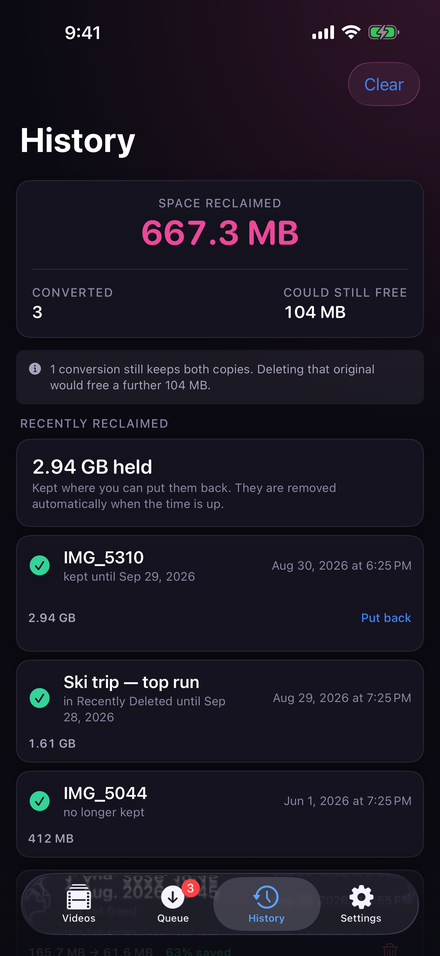
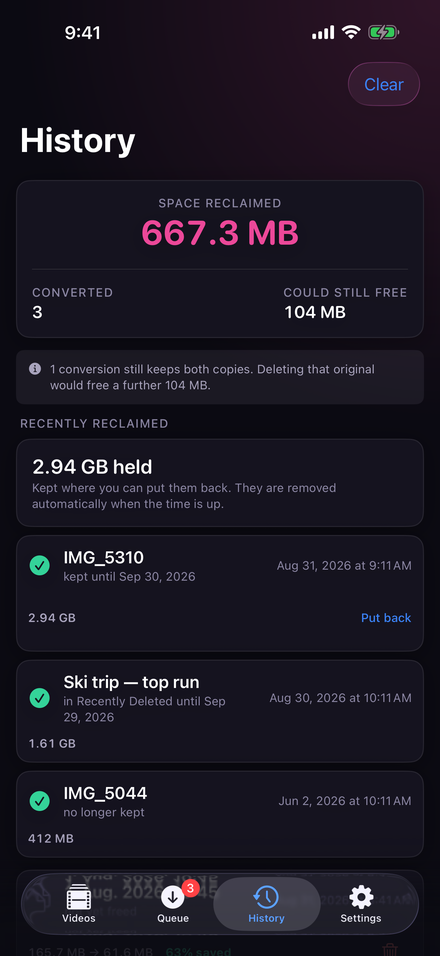
Publish videosqueezer: 55 pages

diff --git a/videosqueezer/el/terms.html b/videosqueezer/el/terms.html
@@ -48,7 +48,7 @@
   <p>Το VideoSqueezer διανέμεται μέσω του App&nbsp;Store, οπότε ισχύει η <a href="https://www.apple.com/legal/internet-services/itunes/dev/stdeula/">Τυπική Άδεια Χρήσης Τελικού Χρήστη</a> της Apple. Αυτοί οι όροι την συμπληρώνουν και λένε ό,τι αφορά ειδικά αυτή την εφαρμογή· όπου διαφωνούν, υπερισχύει της Apple.</p>
 
   <h3>Αγορές</h3>
-  <p>Η πλήρης έκδοση είναι <strong>μία εφάπαξ αγορά</strong>. Δεν είναι συνδρομή, τίποτα δεν ανανεώνεται και δεν υπάρχει επαναλαμβανόμενη χρέωση. Την πληρωμή, τους φόρους και τις αποδείξεις τα χειρίζεται εξ ολοκλήρου η Apple· δεν βλέπουμε ποτέ τα στοιχεία πληρωμής σου.</p>
+  <p>Η πλήρης έκδοση αγοράζεται με δύο τρόπους: ως <strong>εφάπαξ αγορά</strong>, που δεν ανανεώνεται ποτέ, ή ως <strong>ετήσια συνδρομή</strong>, με αυτόματη ανανέωση μέχρι να ακυρώσεις. Ακύρωση οποτεδήποτε από Ρυθμίσεις ▸ Λογαριασμός Apple ▸ Συνδρομές. Την πληρωμή, τους φόρους και τις αποδείξεις τα χειρίζεται εξ ολοκλήρου η Apple· δεν βλέπουμε ποτέ τα στοιχεία πληρωμής σου.</p>
   <p>Τις επιστροφές χρημάτων τις κάνει η Apple, όχι εμείς. Ζήτησέ τες στο <a href="https://reportaproblem.apple.com">reportaproblem.apple.com</a>.</p>
   <p>Τα βίντεο έως 60&nbsp;δευτερόλεπτα συμπιέζονται δωρεάν, σε κάθε επίπεδο ποιότητας — το δωρεάν όριο είναι η διάρκεια, όχι η ποιότητα. Η αγορά αφαιρεί το όριο διάρκειας και προσθέτει κωδικοποίηση δύο περασμάτων και προσαρμοσμένους στόχους ρυθμού bit. Αν μια μελλοντική έκδοση προσθέσει επί πληρωμή δυνατότητα, καλύπτεται από την ίδια αγορά.</p>
 

diff --git a/videosqueezer/ru/terms.html b/videosqueezer/ru/terms.html
@@ -48,7 +48,7 @@
   <p>VideoSqueezer распространяется через App&nbsp;Store, поэтому действует <a href="https://www.apple.com/legal/internet-services/itunes/dev/stdeula/">Стандартное лицензионное соглашение с конечным пользователем</a> Apple. Эти условия дополняют её и описывают то, что свойственно именно этому приложению; при расхождении преимущество за документом Apple.</p>
 
   <h3>Покупки</h3>
-  <p>Полная версия — это <strong>одна разовая покупка</strong>. Это не подписка, ничего не продлевается, повторных списаний нет. Оплату, налоги и чеки полностью обрабатывает Apple; мы никогда не видим ваши платёжные данные.</p>
+  <p>Полную версию можно купить двумя способами: <strong>разовой покупкой</strong>, которая никогда не продлевается, или <strong>годовой подпиской</strong>, которая продлевается автоматически, пока вы не отмените. Отменить можно в любой момент: Настройки ▸ Учётная запись Apple ▸ Подписки. Оплату, налоги и чеки полностью обрабатывает Apple; мы никогда не видим ваши платёжные данные.</p>
   <p>Возврат средств делает Apple, а не мы. Запросите его на <a href="https://reportaproblem.apple.com">reportaproblem.apple.com</a>.</p>
   <p>Видео до 60&nbsp;секунд сжимаются бесплатно на любом уровне качества — бесплатное пользование ограничено длиной, а не качеством. Покупка снимает ограничение длины и добавляет двухпроходное кодирование и собственные цели по битрейту. Если в будущей версии появится платная возможность, она покрывается той же покупкой.</p>
 

diff --git a/videosqueezer/uk/terms.html b/videosqueezer/uk/terms.html
@@ -48,7 +48,7 @@
   <p>VideoSqueezer розповсюджується через App&nbsp;Store, тож діє <a href="https://www.apple.com/legal/internet-services/itunes/dev/stdeula/">Стандартна ліцензійна угода з кінцевим користувачем</a> Apple. Ці умови доповнюють її й описують те, що властиве саме цьому застосунку; у разі розбіжності переважає документ Apple.</p>
 
   <h3>Покупки</h3>
-  <p>Повна версія — це <strong>одна разова покупка</strong>. Це не підписка, ніщо не поновлюється, і повторних списань немає. Оплату, податки та чеки повністю обробляє Apple; ми ніколи не бачимо ваших платіжних даних.</p>
+  <p>Повну версію можна придбати двома способами: <strong>разовою покупкою</strong>, яка ніколи не поновлюється, або <strong>річною підпискою</strong>, яка поновлюється автоматично, доки ви не скасуєте. Скасувати можна будь-коли: Параметри ▸ Обліковий запис Apple ▸ Підписки. Оплату, податки та чеки повністю обробляє Apple; ми ніколи не бачимо ваших платіжних даних.</p>
   <p>Повернення коштів робить Apple, а не ми. Попросіть про нього на <a href="https://reportaproblem.apple.com">reportaproblem.apple.com</a>.</p>
   <p>Відео до 60&nbsp;секунд стискаються безкоштовно на будь-якому рівні якості — безкоштовне користування обмежене тривалістю, а не якістю. Покупка знімає обмеження тривалості й додає двопрохідне кодування та власні цілі за бітрейтом. Якщо в майбутній версії зʼявиться платна можливість, вона покривається тією самою покупкою.</p>
 

diff --git a/videosqueezer/el/privacy.html b/videosqueezer/el/privacy.html
@@ -63,7 +63,7 @@
   <p>Το προαιρετικό κλείδωμα της εφαρμογής χρησιμοποιεί το Face&nbsp;ID μέσω του iOS. Στην εφαρμογή λέγεται μόνο αν ο έλεγχος πέρασε. Δεν βλέπει ποτέ τα δεδομένα του προσώπου σου, τα οποία δεν φεύγουν ποτέ από το Secure&nbsp;Enclave της συσκευής σου.</p>
 
   <h3>Αγορές</h3>
-  <p>Η πλήρης έκδοση είναι μία εφάπαξ αγορά, την οποία χειρίζεται εξ ολοκλήρου η Apple. Δεν βλέπουμε ποτέ τα στοιχεία πληρωμής σου, τον λογαριασμό Apple σου ή το όνομά σου. Η εφαρμογή ρωτά την Apple τι κατέχεις και αποθηκεύει την απάντηση στη συσκευή, ώστε αυτό που αγόρασες να συνεχίζει να δουλεύει εκτός σύνδεσης.</p>
+  <p>Η πλήρης έκδοση αγοράζεται μέσω της Apple, η οποία χειρίζεται εξ ολοκλήρου τη συναλλαγή. Δεν βλέπουμε ποτέ τα στοιχεία πληρωμής σου, τον λογαριασμό Apple σου ή το όνομά σου. Η εφαρμογή ρωτά την Apple τι κατέχεις και αποθηκεύει την απάντηση στη συσκευή, ώστε αυτό που αγόρασες να συνεχίζει να δουλεύει εκτός σύνδεσης.</p>
   <p>Η αγορά υποστηρίζει την Οικογενειακή Κοινή Χρήση. Αν κάποιος από την οικογενειακή σου ομάδα τη μοιραστεί μαζί σου, η Apple λέει στην εφαρμογή ότι δικαιούσαι — και τίποτα για το ποιος είναι αυτός.</p>
 
   <h3>Παιδιά</h3>

diff --git a/videosqueezer/ru/privacy.html b/videosqueezer/ru/privacy.html
@@ -63,7 +63,7 @@
   <p>Необязательная блокировка приложения использует Face&nbsp;ID через iOS. Приложению сообщается только то, прошла ли проверка. Оно никогда не видит данные вашего лица, которые никогда не покидают Secure&nbsp;Enclave вашего устройства.</p>
 
   <h3>Покупки</h3>
-  <p>Полная версия — это одна разовая покупка, которую целиком обрабатывает Apple. Мы никогда не видим ваши платёжные данные, вашу учётную запись Apple или ваше имя. Приложение спрашивает у Apple, что вам принадлежит, и хранит ответ на устройстве, чтобы купленное работало и без сети.</p>
+  <p>Полная версия покупается через Apple, которая целиком обрабатывает платёж. Мы никогда не видим ваши платёжные данные, вашу учётную запись Apple или ваше имя. Приложение спрашивает у Apple, что вам принадлежит, и хранит ответ на устройстве, чтобы купленное работало и без сети.</p>
   <p>Покупкой можно делиться в семье. Если кто-то из вашей семейной группы поделится ею с вами, Apple сообщит приложению, что у вас есть право, — и ничего о том, кто этот человек.</p>
 
   <h3>Дети</h3>

diff --git a/videosqueezer/ja/terms.html b/videosqueezer/ja/terms.html
@@ -48,7 +48,7 @@
   <p>VideoSqueezer は App&nbsp;Store を通じて配布されるため、Apple の<a href="https://www.apple.com/legal/internet-services/itunes/dev/stdeula/">標準エンドユーザー使用許諾契約</a>が適用されます。本規約はそれを補い、このアプリ固有の事項を定めます。両者が食い違う場合は Apple のものが優先します。</p>
 
   <h3>購入について</h3>
-  <p>フル版は<strong>一度きりの買い切り</strong>です。サブスクリプションではなく、自動更新も、継続的な請求もありません。支払い、税金、領収書はすべて Apple が扱い、私たちがあなたの支払い情報を見ることはありません。</p>
+  <p>フル版の買い方は 2 つあります。更新のない<strong>一度きりの買い切り</strong>か、解約するまで自動更新される<strong>年額サブスクリプション</strong>です。「設定」▸「Apple アカウント」▸「サブスクリプション」でいつでも解約できます。支払い、税金、領収書はすべて Apple が扱い、私たちがあなたの支払い情報を見ることはありません。</p>
   <p>返金を行うのは私たちではなく Apple です。<a href="https://reportaproblem.apple.com">reportaproblem.apple.com</a> からご依頼ください。</p>
   <p>60&nbsp;秒までの動画は、どの画質段階でも無料で圧縮できます。無料枠を区切るのは長さであって、画質ではありません。購入すると長さの制限がなくなり、2&nbsp;パスエンコードと任意のビットレート指定が加わります。将来のバージョンで有料機能が追加された場合も、同じ購入に含まれます。</p>
 

diff --git a/videosqueezer/uk/privacy.html b/videosqueezer/uk/privacy.html
@@ -63,7 +63,7 @@
   <p>Необовʼязкове блокування застосунку використовує Face&nbsp;ID через iOS. Застосунку повідомляється лише те, чи перевірка пройшла. Він ніколи не бачить дані вашого обличчя, які ніколи не залишають Secure&nbsp;Enclave вашого пристрою.</p>
 
   <h3>Покупки</h3>
-  <p>Повна версія — це одна разова покупка, яку повністю обробляє Apple. Ми ніколи не бачимо ваших платіжних даних, вашого облікового запису Apple чи вашого імені. Застосунок запитує в Apple, що вам належить, і зберігає відповідь на пристрої, щоб куплене працювало й офлайн.</p>
+  <p>Повна версія купується через Apple, яка повністю обробляє транзакцію. Ми ніколи не бачимо ваших платіжних даних, вашого облікового запису Apple чи вашого імені. Застосунок запитує в Apple, що вам належить, і зберігає відповідь на пристрої, щоб куплене працювало й офлайн.</p>
   <p>Покупку можна ділити в родині. Якщо хтось із вашої родинної групи поділиться нею з вами, Apple повідомить застосунку, що ви маєте право, — і нічого про те, хто ця людина.</p>
 
   <h3>Діти</h3>

diff --git a/videosqueezer/ko/terms.html b/videosqueezer/ko/terms.html
@@ -48,7 +48,7 @@
   <p>VideoSqueezer는 App&nbsp;Store를 통해 배포되므로 Apple의 <a href="https://www.apple.com/legal/internet-services/itunes/dev/stdeula/">표준 최종 사용자 사용권 계약</a>이 적용됩니다. 이 약관은 그것을 보완하며 이 앱에 고유한 사항을 정합니다. 둘이 어긋나는 경우 Apple의 것이 우선합니다.</p>
 
   <h3>구입</h3>
-  <p>정식 버전은 <strong>한 번으로 끝나는 구입</strong>입니다. 구독이 아니며, 갱신되는 것도, 반복 청구도 없습니다. 결제, 세금, 영수증은 전적으로 Apple이 처리하며 저희는 결제 정보를 결코 보지 않습니다.</p>
+  <p>정식 버전은 두 가지 방법으로 구입할 수 있습니다. 갱신되지 않는 <strong>한 번만 결제하는 구입</strong>, 또는 취소할 때까지 자동으로 갱신되는 <strong>연간 구독</strong>입니다. 설정 ▸ Apple 계정 ▸ 구독에서 언제든지 취소할 수 있습니다. 결제, 세금, 영수증은 전적으로 Apple이 처리하며 저희는 결제 정보를 결코 보지 않습니다.</p>
   <p>환불은 저희가 아니라 Apple이 처리합니다. <a href="https://reportaproblem.apple.com">reportaproblem.apple.com</a>에서 요청하세요.</p>
   <p>60초 이하 동영상은 모든 화질 단계에서 무료로 압축됩니다. 무료 이용을 가르는 것은 길이이지 화질이 아닙니다. 구입하면 길이 제한이 사라지고 2패스 인코딩과 사용자 지정 비트레이트가 더해집니다. 앞으로의 버전에서 유료 기능이 추가되더라도 같은 구입에 포함됩니다.</p>
 

diff --git a/videosqueezer/fr/terms.html b/videosqueezer/fr/terms.html
@@ -48,7 +48,7 @@
   <p>VideoSqueezer est distribuée par l’App&nbsp;Store, donc le <a href="https://www.apple.com/legal/internet-services/itunes/dev/stdeula/">Contrat de licence utilisateur final type</a> d’Apple s’applique. Ces conditions s’y ajoutent et disent ce qui est propre à cette app ; en cas de désaccord, celles d’Apple l’emportent.</p>
 
   <h3>Achats</h3>
-  <p>La version complète est un <strong>achat unique</strong>. Ce n’est pas un abonnement, rien ne se renouvelle et il n’y a aucun prélèvement récurrent. Le paiement, les taxes et les reçus sont entièrement gérés par Apple ; nous ne voyons jamais vos informations de paiement.</p>
+  <p>La version complète s’achète de deux façons : un <strong>achat unique</strong>, qui ne se renouvelle jamais, ou un <strong>abonnement annuel</strong>, avec renouvellement automatique jusqu’à résiliation. Résiliez quand vous voulez dans Réglages ▸ Compte Apple ▸ Abonnements. Le paiement, les taxes et les reçus sont entièrement gérés par Apple ; nous ne voyons jamais vos informations de paiement.</p>
   <p>Les remboursements relèvent d’Apple, pas de nous. Demandez-en un sur <a href="https://reportaproblem.apple.com">reportaproblem.apple.com</a>.</p>
   <p>Les vidéos jusqu’à 60&nbsp;secondes se compressent gratuitement, à tous les niveaux de qualité — la limite du gratuit porte sur la durée, pas sur la qualité. L’achat supprime la limite de durée et ajoute l’encodage en deux passes et des débits personnalisés. Si une version future ajoute une fonction payante, elle est couverte par le même achat.</p>
 

diff --git a/videosqueezer/de/terms.html b/videosqueezer/de/terms.html
@@ -48,7 +48,7 @@
   <p>VideoSqueezer wird über den App&nbsp;Store vertrieben, also gilt Apples <a href="https://www.apple.com/legal/internet-services/itunes/dev/stdeula/">Standard-Lizenzvereinbarung für Endbenutzer</a>. Diese Bedingungen ergänzen sie und regeln das, was für diese App eigen ist; wo beide sich widersprechen, gilt Apples Fassung.</p>
 
   <h3>Käufe</h3>
-  <p>Die Vollversion ist ein <strong>einzelner einmaliger Kauf</strong>. Es ist kein Abo, nichts verlängert sich, und es gibt keine wiederkehrende Abbuchung. Zahlung, Steuern und Belege wickelt Apple vollständig ab; wir sehen deine Zahlungsdaten nie.</p>
+  <p>Die Vollversion gibt es auf zwei Wegen: als <strong>einmaligen Kauf</strong>, der sich nie verlängert, oder als <strong>Jahres-Abo</strong>, das sich automatisch verlängert, bis du kündigst. Jederzeit kündbar unter Einstellungen ▸ Apple-Account ▸ Abos. Zahlung, Steuern und Belege wickelt Apple vollständig ab; wir sehen deine Zahlungsdaten nie.</p>
   <p>Rückerstattungen liegen bei Apple, nicht bei uns. Beantrage sie unter <a href="https://reportaproblem.apple.com">reportaproblem.apple.com</a>.</p>
   <p>Videos bis 60&nbsp;Sekunden lassen sich in jeder Qualitätsstufe gratis komprimieren – die kostenlose Nutzung ist durch die Länge begrenzt, nicht durch die Qualität. Der Kauf hebt die Längenbegrenzung auf und ergänzt Zwei-Pass-Kodierung und eigene Bitratenziele. Kommt in einer künftigen Version eine kostenpflichtige Funktion hinzu, ist sie von demselben Kauf gedeckt.</p>
 

diff --git a/videosqueezer/it/terms.html b/videosqueezer/it/terms.html
@@ -48,7 +48,7 @@
   <p>VideoSqueezer è distribuita tramite l’App&nbsp;Store, quindi vale il <a href="https://www.apple.com/legal/internet-services/itunes/dev/stdeula/">Contratto di licenza con l’utente finale standard</a> di Apple. Queste condizioni lo integrano e dicono ciò che è specifico di questa app; dove i due divergono, prevale quello di Apple.</p>
 
   <h3>Acquisti</h3>
-  <p>La versione completa è un <strong>singolo acquisto una tantum</strong>. Non è un abbonamento, non si rinnova nulla e non esistono addebiti ricorrenti. Pagamento, imposte e ricevute sono gestiti interamente da Apple; non vediamo mai i tuoi dati di pagamento.</p>
+  <p>La versione completa si acquista in due modi: un <strong>acquisto una tantum</strong>, che non si rinnova mai, o un <strong>abbonamento annuale</strong>, con rinnovo automatico finché non annulli. Annulla quando vuoi in Impostazioni ▸ Account Apple ▸ Abbonamenti. Pagamento, imposte e ricevute sono gestiti interamente da Apple; non vediamo mai i tuoi dati di pagamento.</p>
   <p>I rimborsi li concede Apple, non noi. Richiedili su <a href="https://reportaproblem.apple.com">reportaproblem.apple.com</a>.</p>
   <p>I video fino a 60&nbsp;secondi si comprimono gratis, a ogni livello di qualità: il limite del gratuito è la durata, non la qualità. L’acquisto toglie il limite di durata e aggiunge la codifica a due passaggi e obiettivi di bitrate personalizzati. Se una versione futura aggiungerà una funzione a pagamento, sarà coperta dallo stesso acquisto.</p>
 

diff --git a/videosqueezer/es/terms.html b/videosqueezer/es/terms.html
@@ -48,7 +48,7 @@
   <p>VideoSqueezer se distribuye por el App&nbsp;Store, así que se aplica el <a href="https://www.apple.com/legal/internet-services/itunes/dev/stdeula/">Contrato de licencia de usuario final estándar</a> de Apple. Estas condiciones lo complementan y dicen lo específico de esta app; si ambos discrepan, prevalece el de Apple.</p>
 
   <h3>Compras</h3>
-  <p>La versión completa es una <strong>única compra puntual</strong>. No es una suscripción, no se renueva nada y no hay cargos recurrentes. El pago, los impuestos y los recibos los gestiona íntegramente Apple; nunca vemos tus datos de pago.</p>
+  <p>La versión completa se puede comprar de dos formas: una <strong>compra puntual</strong>, que no se renueva nunca, o una <strong>suscripción anual</strong>, con renovación automática hasta que canceles. Cancela cuando quieras en Ajustes ▸ Cuenta de Apple ▸ Suscripciones. El pago, los impuestos y los recibos los gestiona íntegramente Apple; nunca vemos tus datos de pago.</p>
   <p>Los reembolsos los concede Apple, no nosotros. Pídelos en <a href="https://reportaproblem.apple.com">reportaproblem.apple.com</a>.</p>
   <p>Los vídeos de hasta 60&nbsp;segundos se comprimen gratis, en todos los niveles de calidad: el límite del modo gratuito es la duración, no la calidad. La compra quita el límite de duración y añade codificación en dos pasadas y objetivos de tasa de bits a medida. Si una versión futura añade una función de pago, queda cubierta por la misma compra.</p>
 
